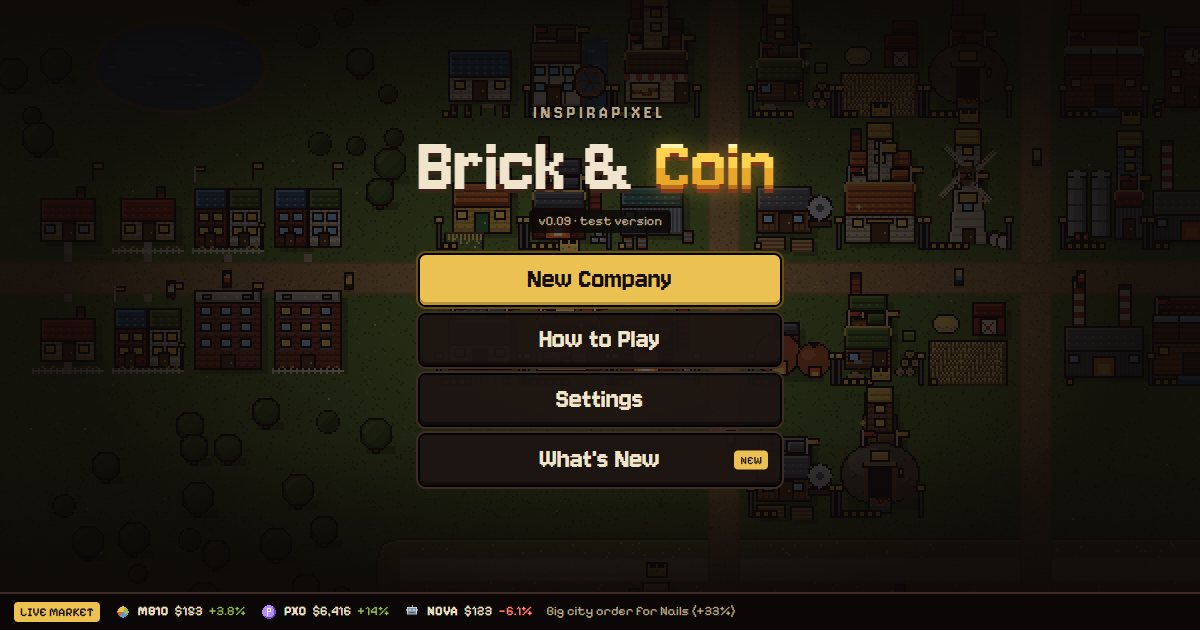
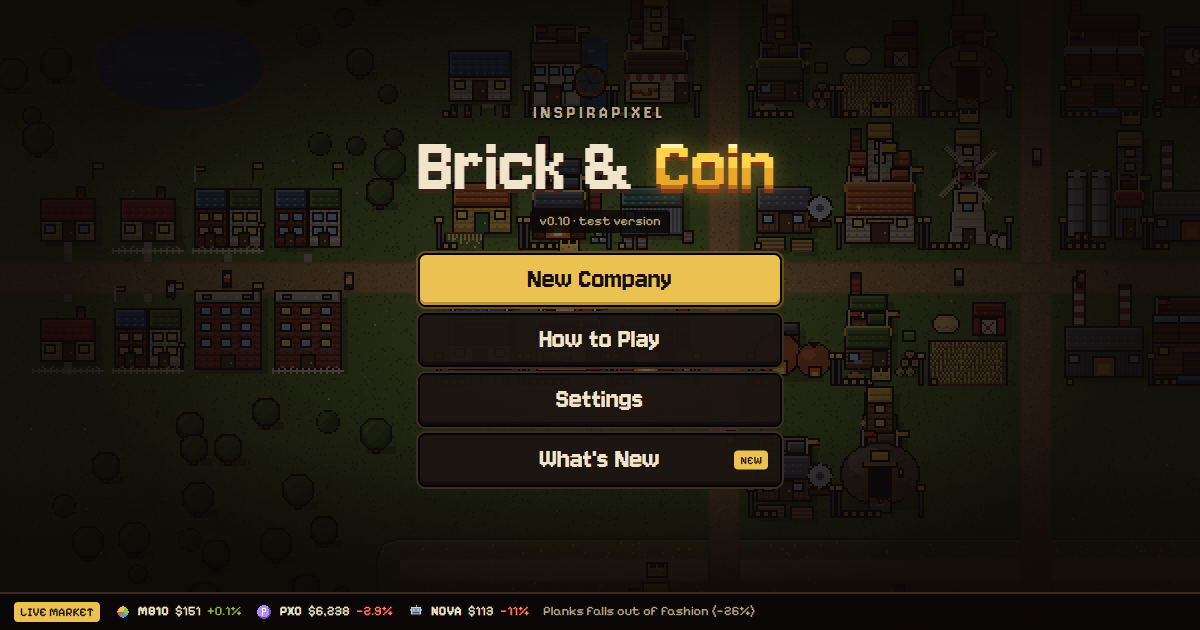
Brick & Coin v0.10: site build (fair share prices, digits with a proper 5)

Changed region(s): [[0.1233, 0.9651, 0.6475, 0.9952], [0.4317, 0.3317, 0.555, 0.3619]]

diff --git a/brick-and-coin/public/index.html b/brick-and-coin/public/index.html
@@ -23,16 +23,22 @@
 <title>Brick &amp; Coin</title>
 <link rel="stylesheet" href="https://fonts.googleapis.com/css2?family=Jersey+10&family=Pixelify+Sans:wght@400;500;600;700&display=swap">
 <style>
-/* Every digit in the Jersey 10 display font comes from Pixelify Sans instead (Jersey's 8 reads oddly). This face is declared after the Google Fonts one, so it wins for 0-9; size-adjust matches Jersey's height. */
[1 lines of base64/hex data omitted]
+/* Every digit in the game comes from "Inspirapixel Digits": Pixelify Sans's digits with a redrawn 5 (Pixelify's own 5 is drawn almost
+   exactly like its S). One face per weight the game uses; "Inspirapixel Digits D" is the same digits sized to sit in the Jersey 10
+   display font (Jersey's own 8 reads oddly). Made by tools/digits.py from Pixelify Sans (SIL Open Font License 1.1). */
[5 lines of base64/hex data omitted]
 :root{
   --glaze:#130d0b; --glaze-2:#1d1411; --glaze-3:#2a1e19; --line:#3e2c24;
   --clay:#cf6a2f; --clay-hi:#e8874a; --clay-lo:#86391a;
   --bone:#f0e4cc; --bone-dim:#b9a78b; --bone-mute:#85735d;
   --gold:#ebc152; --gold-hi:#ffd463; --aegean:#5b9bd5; --olive:#9bbb55; --blood:#d9493b; --pink:#ff8a7a; --violet:#b48cff;
-  --font-display:"Jersey 10","Pixelify Sans",ui-monospace,monospace;
-  --font-ui:"Pixelify Sans",ui-monospace,"Courier New",monospace;
-  --font-num:"Pixelify Sans",ui-monospace,monospace;
+  --font-display:"Inspirapixel Digits D","Jersey 10","Pixelify Sans",ui-monospace,monospace;
+  --font-ui:"Inspirapixel Digits","Pixelify Sans",ui-monospace,"Courier New",monospace;
+  --font-num:"Inspirapixel Digits","Pixelify Sans",ui-monospace,monospace;
   --rad:6px; --rad-sm:4px;
   color-scheme:dark;
 }
@@ -599,7 +605,7 @@ textarea.savebox{width:100%;min-height:90px;background:#000;border:0;border-radi
    Every number here is a v0.01 first guess, tuned so a first session hits
    Level 2 in roughly 15–20 minutes. Change freely.
    ========================================================================== */
-const VERSION = 'v0.09';
+const VERSION = 'v0.10';
 const SAVE_KEY = 'inspirapixel_bizgame_v001';   // never change: players' saves live under this key
 const TUT_DONE = 99;                              // S.tut value once the tutorial is finished or skipped
 
@@ -1195,12 +1201,14 @@ const OWN_MIN = 0.6, OWN_MAX = 1.4;
 const CROWD_HALF = 300;               // seconds: a burst of selling fades with a 5-minute half-life (the server uses the same)
 const CROWD_R0 = 300;                 // everyone together selling the output of 300 building levels non-stop: about −29%
 const CROWD_MIN = 0.7, CROWD_MAX = 1.35;   // the most a crowd can move a price: −30% selling, +35% buying
-/* v0.08: going public (see 38_pub.js; the server has the same numbers). A company at Level 3 can sell up to 49% of itself in
+/* v0.08: going public (see 55_pub.js; the server has the same numbers). A company at Level 3 can sell up to 49% of itself in
    new shares: the cash goes into the company, and its owner keeps the rest. Investors value a company at what it's worth plus
-   up to an hour of profit (at most twice its worth); an IPO is priced 10% under that, and the bank keeps 5%. A public company
-   pays 30% of its profit as dividends, split by who owns it, so its outside shareholders get their part. */
+   15 minutes of its steady profit, at most 25% more (v0.10: it was an hour, up to 3× its worth, so share prices ran far
+   ahead of the company); an IPO is priced 10% under that, and the bank keeps 5%. A public company pays 30% of its profit as
+   dividends, split by who owns it, so its outside shareholders get their part. */
 const PUB_LEVEL = 3;
-const PUB_SHARES = 100000, PUB_MAX = 0.49, PUB_PREMIUM = 60;
+const PUB_SHARES = 100000, PUB_MAX = 0.49, PUB_PREMIUM = 15, PUB_PREM_CAP = 0.25;
+const PROF_AVG = 600;   // seconds: "steady profit" is profit averaged over about 10 minutes (it values companies)
 const PUB_HALF = 1800, PUB_DEPTH = 0.05, PUB_MOVE = [0.6, 1.6];   // players' trading moves a share price (fades over 30 min), within ×0.6..×1.6
 const IPO_DISCOUNT = 0.9, IPO_FEE = 0.05, ISSUE_FEE = 0.05, BUYBACK_FEE = 0.005;
 const PUB_DIV = 0.3;
@@ -1340,6 +1348,12 @@ const EV_STOCK_DOWN = ['{C} misses profit expectations', '{C} CEO under fire', '
    The patch notes on the starting menu, newest first. Add an entry at the top with every release (its v must match
    VERSION): the What's New button shows a NEW badge until the player has read the latest one. */
 const WHATS_NEW = [
+  { v: 'v0.10', title: 'Fair shares', items: [
+    '<b>Share prices that add up</b>: investors now pay what a company is worth plus 15 minutes of its steady profit, at most 25% more. Before, they paid up to three times its worth, so a public company’s market value ran far ahead of its owner’s net worth.',
+    'Companies are valued on their <b>steady profit</b> (about the last 10 minutes), so one big sale or a bulk buy of materials no longer swings a share price.',
+    'Your company (Invest) shows how the share price is worked out, the market value next to the company value, and how many shares you own.',
+    '<b>Clearer numbers</b>: every 5 now looks like a 5, not an S.',
+  ] },
   { v: 'v0.09', title: 'Smoother', items: [
     'A more <b>realistic market</b>: Millbrook’s buyers are a big market, so your own steady selling barely moves a price any more (a busy factory line used to cut its own price in half). Dumping a huge pile at once still pushes it down for a couple of minutes, and what all the players do together sets the trends.',
     '<b>More room for factories</b>: your HQ starts with room for 10 building levels (was 6), and every upgrade adds more for less.',
@@ -2202,6 +2216,9 @@ function sellAllSpare() {
 function quoteBuy(p, q) { const M = S.market[p], D = marketDepth(p); return q * buyPrice(p) * Math.sqrt(1 + q / (OWN_DEPTH * D) / 2); }
 function addProfit(x) { S.prof[S.profI] += x; }
 function profitPerMin() { let s = 0; for (const v of S.prof) s += v; const n = Math.min(60, Math.max(1, S.profN)); return s * 60 / n; }
+// profit per minute averaged over about 10 minutes: what investors value a company on, so one big sale or a bulk buy of
+// inputs doesn't swing its share price (v0.10)
+function profitSteady() { return S.profAvg == null ? profitPerMin() : S.profAvg; }
 
 /* how much of a product we want to keep in storage before selling the rest */
 function flowOf(p) { return S.flow[p] || 'auto'; }
@@ -2359,6 +2376,7 @@ function step(dt) {
     S._sec -= 1;
     sellSurplus();
     for (const p of PIDS) { const M = S.market[p]; M._h = (M._h || 0) + 1; if (M._h >= 5) { M._h = 0; M.hist.push(+price(p).toFixed(2)); if (M.hist.length > 60) M.hist.shift(); } }
+    S.profAvg = profitSteady() + (S.prof[S.profI] * 60 - profitSteady()) * (1 - Math.exp(-1 / PROF_AVG));
     S.profI = (S.profI + 1) % 60; S.prof[S.profI] = 0; S.profN++;
     checkLevel(); checkGoals();
   }
@@ -2812,7 +2830,7 @@ async function netFetchSave() {
   const d = await netCall('/save');
   try { NET.cloud = d.save ? JSON.parse(d.save) : null; } catch (e) { NET.cloud = null; }
 }
-function netBody() { return { company: S.company, nw: Math.round(netWorth()), level: S.level, book: Math.round(companyValue()), profit: Math.round(profitPerMin() * 100) / 100 }; }
+function netBody() { return { company: S.company, nw: Math.round(netWorth()), level: S.level, book: Math.round(companyValue()), profit: Math.round(profitSteady() * 100) / 100 }; }
 // send the save now (leaving, the main menu, a new company). keepalive lets it finish after the page closes.
 function netSaveNow(leaving) {
   if (!NET.token || !S || !NET_API) return;
@@ -3799,8 +3817,8 @@ function townPostcard() {
    PUBLIC COMPANIES (v0.08): going public, and owning part of other players'
    companies. The server (server/index.js) keeps the share register; cash stays
    in each game, like everything else about a company.
-   - A share's price: the company's value plus up to an hour of its profit (at most
-     twice its value), over all its shares (pubFair); moved by players buying and
+   - A share's price: the company's value plus 15 minutes of its steady profit (at
+     most 25% more, v0.10), over all its shares (pubFair); moved by players buying and
      selling it (pubImpact: the square-root law, fading over half an hour), by the
      market's mood (pubMood: the Millbrook 10 over 4 hours) and by the company's own
      wander (pubWander). The last two come from the shared world, so every player
@@ -3817,7 +3835,8 @@ function pubParse(r) { return { ticker: r[0], co: r[1], owner: r[2], total: +r[3
 function pubListing(t) { return NET.listings.find(L => L.ticker === t) || null; }
 function ownFrac() { return S && S.pub && S.pub.total > 0 ? clamp(S.pub.own / S.pub.total, 0, 1) : 1; }
 function tickerSeed(t) { let h = 7; for (let i = 0; i < t.length; i++) h = (Math.imul(h, 31) + t.charCodeAt(i)) >>> 0; return h; }
-function pubFair(L) { const b = Math.max(0, L.book); return Math.max(.01, (b + Math.min(2 * b, PUB_PREMIUM * Math.max(0, L.profit))) / L.total); }
+function pubPremium(book, profit) { return Math.min(PUB_PREM_CAP * Math.max(0, book), PUB_PREMIUM * Math.max(0, profit)); }   // what investors add for profit
+function pubFair(L) { const b = Math.max(0, L.book); return Math.max(.01, (b + pubPremium(b, L.profit)) / L.total); }
 function pubPressure(L) { const k = Math.pow(.5, Math.max(0, nowMs() - L.ft) / 1000 / PUB_HALF); return [L.fb * k, L.fs * k]; }
 function pubImpact(L) { const [fb, fs] = pubPressure(L), D = PUB_DEPTH * pubFair(L) * L.total; return clamp(Math.sqrt((1 + fb / D) / (1 + fs / D)), PUB_MOVE[0], PUB_MOVE[1]); }
 function pubMood() { const A = WS.assets.MB10, a = A.h60 && A.h60.length ? A.h60[0] : 0; return a ? clamp(Math.pow(A.p / a, 1.2), .85, 1.18) : 1; }
@@ -3827,7 +3846,7 @@ function pubPrice(L) { return pubFair(L) * pubImpact(L) * pubMood() * pubWander(
 function pubMineL() {
   if (!S || !S.pub) return null;
   const L = pubListing(S.pub.ticker) || { ticker: S.pub.ticker, fb: 0, fs: 0, ft: 0, held: 0, holders: 0, paid: 0 };
-  return { ...L, total: S.pub.total, own: S.pub.own, book: companyValue(), profit: profitPerMin() };
+  return { ...L, total: S.pub.total, own: S.pub.own, book: companyValue(), profit: profitSteady() };
 }
 // shares this company holds in other players' companies, at today's prices (the last known one if a company drops off the list)
 function pubHoldValue() {
@@ -3855,7 +3874,7 @@ function pubTake(d) {
 
 /* ---------- actions (each returns a promise of a message, or throws one) ---------- */
 function ipoQuote(f) {
-  const cv = companyValue(), fair = cv + Math.min(2 * cv, PUB_PREMIUM * Math.max(0, profitPerMin())), raised = fair * f / (1 - f) * IPO_DISCOUNT * (1 - IPO_FEE);
+  const cv = companyValue(), fair = cv + pubPremium(cv, profitSteady()), raised = fair * f / (1 - f) * IPO_DISCOUNT * (1 - IPO_FEE);
   return { fair, raised, nwAfter: (cv + raised) * (1 - f) };
 }
 function floatQuote(target) {
@@ -3871,7 +3890,7 @@ async function pubGoPublic(f) {
   if (!NET.token) throw new Error('Log in first (Menu → Online): going public needs the server');
   if (!PUB_STEPS.includes(f)) throw new Error('Pick how much to sell');
   if (!NET.lastSave) await netSync(true);   // the server needs the company before it can list it
-  const d = await netCall('/ipo', { f, company: S.company, book: Math.round(companyValue()), profit: profitPerMin() });
+  const d = await netCall('/ipo', { f, company: S.company, book: Math.round(companyValue()), profit: profitSteady() });
   NET.pubAt = Date.now();
   S.cash += d.raised; S.pub = { ...d.mine, paid: 0 };
   pushNews(`${S.company} goes public as ${d.ticker}: ${Math.round(f * 100)}% sold to investors for ${money(d.raised, false)}`, 'up');
@@ -3881,7 +3900,7 @@ async function pubGoPublic(f) {
 async function pubFloat(target) {
   const q = floatQuote(target); if (!q) throw new Error(`${S.company} isn’t public`);
   if (q.cash < 0 && S.cash < -q.cash) throw new Error(`Not enough cash: buying back costs about ${money(-q.cash, false)}`);
-  const d = await netCall('/float', { f: target, book: Math.round(companyValue()), profit: profitPerMin() });
+  const d = await netCall('/float', { f: target, book: Math.round(companyValue()), profit: profitSteady() });
   NET.pubAt = Date.now();
   S.cash += d.cash; const paid = S.pub.paid || 0; S.pub = d.mine ? { ...d.mine, paid } : null;
   saveLocal(); netSaveNow();
@@ -3930,7 +3949,8 @@ Object.assign(LIVE, {
   pubhpl(t) { const h = S.pubHold[t], L = pubListing(t); if (!h || !L || h.q <= 0) return { text: '—', cls: 'muted' }; const v = h.q * pubPrice(L) - h.cost; return { text: (v >= 0 ? '+' : '') + money(v) + ' (' + pctTxt(v / h.cost) + ')', cls: v >= 0 ? 'olive' : 'red' }; },
   mypx() { const L = pubMineL(); return L ? money(pubPrice(L)) : '—'; },
   mycap() { const L = pubMineL(); return L ? money(pubPrice(L) * L.total, false) : '—'; },
-  mynw: () => money(netWorth(), false), mycv: () => money(companyValue(), false),
+  mynw: () => money(netWorth(), false), mycv: () => money(companyValue(), false), mysteady: () => money(profitSteady()) + '/min',
+  myprem() { const L = pubMineL(); if (!L) return '—'; const v = pubPrice(L) * L.total / Math.max(1, companyValue()) - 1; return (v >= 0 ? '+' : '−') + Math.round(Math.abs(v) * 100) + '%'; },
   ipoval: () => money(ipoQuote(UI.ipoF).fair, false),
   iporaise: () => '+' + money(ipoQuote(UI.ipoF).raised, false),
   iponw: () => money(ipoQuote(UI.ipoF).nwAfter, false),
@@ -3969,7 +3989,8 @@ function pubMineView(tabs) {
     return { sig: `mine|ipo|${f}|${ok}|${NET.token ? 1 : 0}|${conf}`, title: 'Invest', html: tabs + `
       <p class="m-sub">Going public sells part of ${esc(S.company)} to investors in new shares. The cash goes straight into the company to grow with, and you keep the rest of it. Players can then buy your shares, and the company pays 30% of its profit as dividends, split by who owns it.</p>
       <section class="card"><h3>Go public</h3>
-        <div class="stat-grid">${pubStat('Company value', '', 'mycv')}${pubStat('Profit', '', 'ppm')}${pubStat('Investors value it at', '', 'ipoval')}</div>
+        <div class="stat-grid">${pubStat('Company value', '', 'mycv')}${pubStat('Steady profit (10 min)', '', 'mysteady')}${pubStat('Investors value it at', '', 'ipoval')}</div>
+        <p class="muted" style="font-size:12px">Investors pay what ${esc(S.company)} is worth plus ${PUB_PREMIUM} minutes of its steady profit, at most ${PUB_PREM_CAP * 100}% more.</p>
         <div class="trade"><span class="muted" style="font-size:13px">Sell</span><div class="seg" role="group" aria-label="How much to sell">${steps}</div></div>
         <div class="kv"><span>You raise (10% IPO discount, 5% bank fee)</span><b class="olive" data-live="iporaise"></b>
           <span>You keep</span><b>${Math.round((1 - f) * 100)}% of ${esc(S.company)}</b>
@@ -3985,9 +4006,10 @@ function pubMineView(tabs) {
   return { sig: `mine|pub|${t}|${S.pub.total}|${S.pub.own}|${conf}|${L.held}`, title: 'Invest', html: tabs + `
     <div class="side-head">${iconImg('house', 54)}<div style="flex:1"><h2>${esc(S.company)}</h2><span class="muted">public as <b>${t}</b> since ${new Date(S.pub.listed).toLocaleDateString()}</span></div>
       <div style="text-align:right"><b class="num gold" style="font-size:30px;line-height:1" data-live="mypx"></b><br><span class="muted" style="font-size:12px">a share</span></div></div>
-    <div class="stat-grid">${pubStat('Market value', '', 'mycap')}${pubStat('Company value', '', 'mycv')}${pubStat('You own', Math.round(ownFrac() * 1000) / 10 + '%')}
-      ${pubStat('Your net worth', '', 'mynw')}${pubStat('Players hold', `${qty(L.held || 0)} shares · ${L.holders || 0}`)}${pubStat('Dividends paid', money(S.pub.paid || 0, false))}</div>
-    <section class="card"><h3>Shares</h3><p class="muted" style="font-size:13px">Outside shareholders own ${Math.round(out * 1000) / 10}% (players and Millbrook’s investors). You pay them ${Math.round(PUB_DIV * out * 100)}% of your profit as dividends.
+    <div class="stat-grid">${pubStat('Company value', '', 'mycv')}${pubStat('Market value', '', 'mycap')}${pubStat('Market vs company', '', 'myprem')}
+      ${pubStat('You own', Math.round(ownFrac() * 1000) / 10 + '%')}${pubStat('Your net worth', '', 'mynw')}${pubStat('Dividends paid', money(S.pub.paid || 0, false))}</div>
+    <p class="muted" style="font-size:12px;margin:8px 0 12px">A share is priced at the company value plus ${PUB_PREMIUM} minutes of steady profit (at most ${PUB_PREM_CAP * 100}% more), split over all ${qty(S.pub.total)} shares (you hold ${qty(S.pub.own)}), then moved by the market’s mood and players’ trading. Market value is that price times every share. Your net worth, and the leaderboard, count your ${Math.round(ownFrac() * 1000) / 10}% of the company value.</p>
+    <section class="card"><h3>Shares</h3><p class="muted" style="font-size:13px">Outside shareholders own ${Math.round(out * 1000) / 10}%: Millbrook’s investors, and players (${qty(L.held || 0)} shares, ${L.holders || 0} player${(L.holders || 0) === 1 ? '' : 's'}). You pay them ${Math.round(PUB_DIV * out * 100)}% of your profit as dividends.
       Selling new shares raises cash at today’s price (5% fee); buying back from investors costs today’s price (players keep theirs).</p>
       <div class="trade">${canUp ? fbtn(up, `Sell more (to ${Math.round(up * 100)}% outside)`) : ''}${canDown ? fbtn(down, down === 0 ? 'Buy all back (go private)' : `Buy back (to ${Math.round(down * 100)}% outside)`) : ''}</div></section>` };
 }
